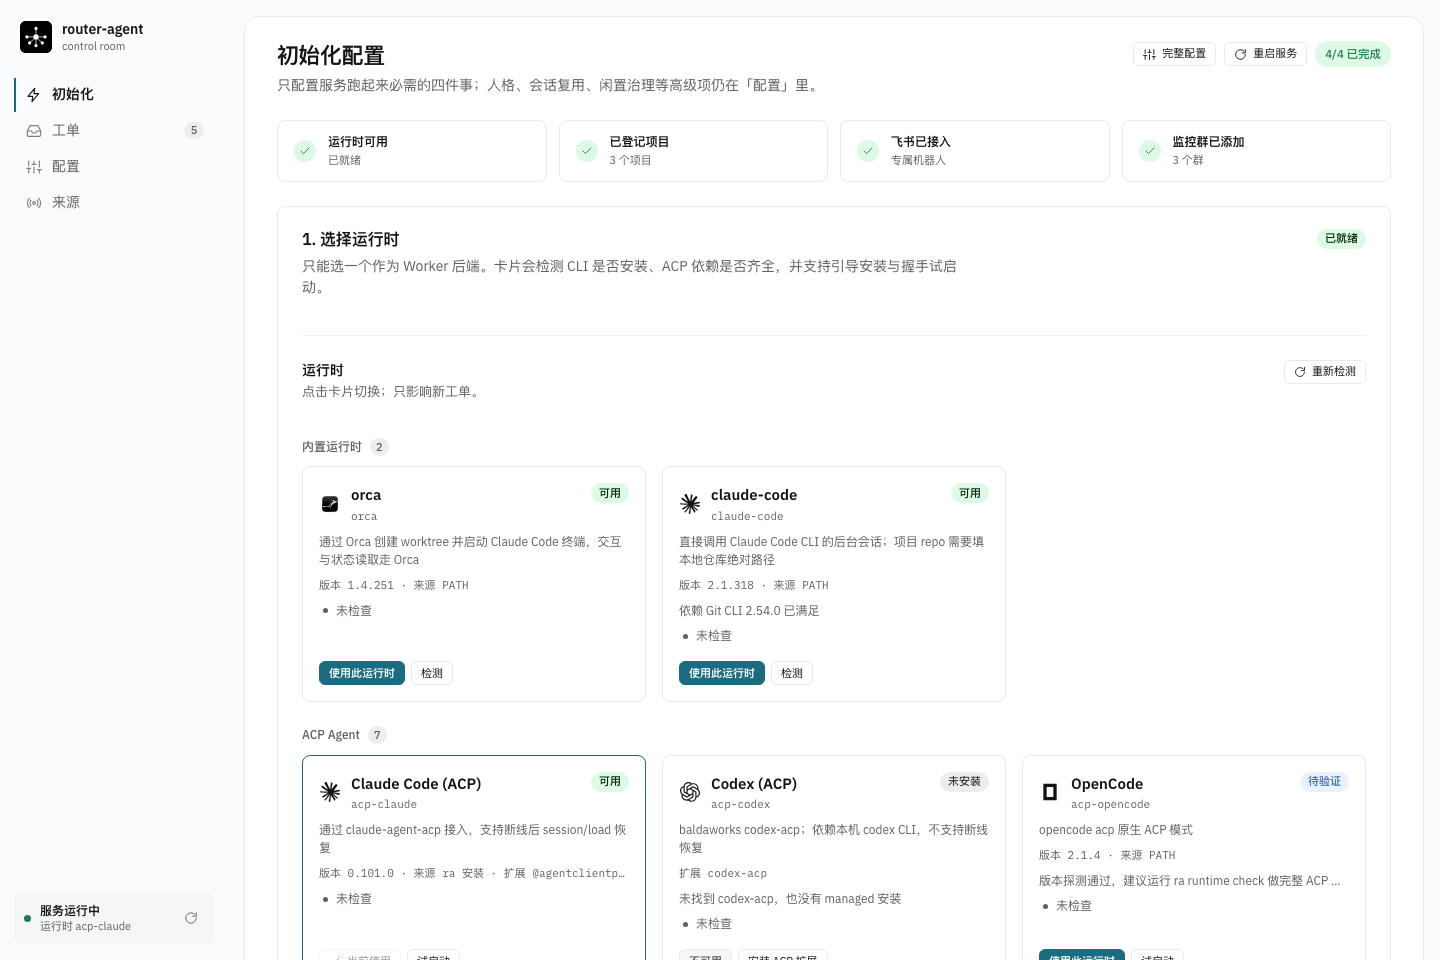
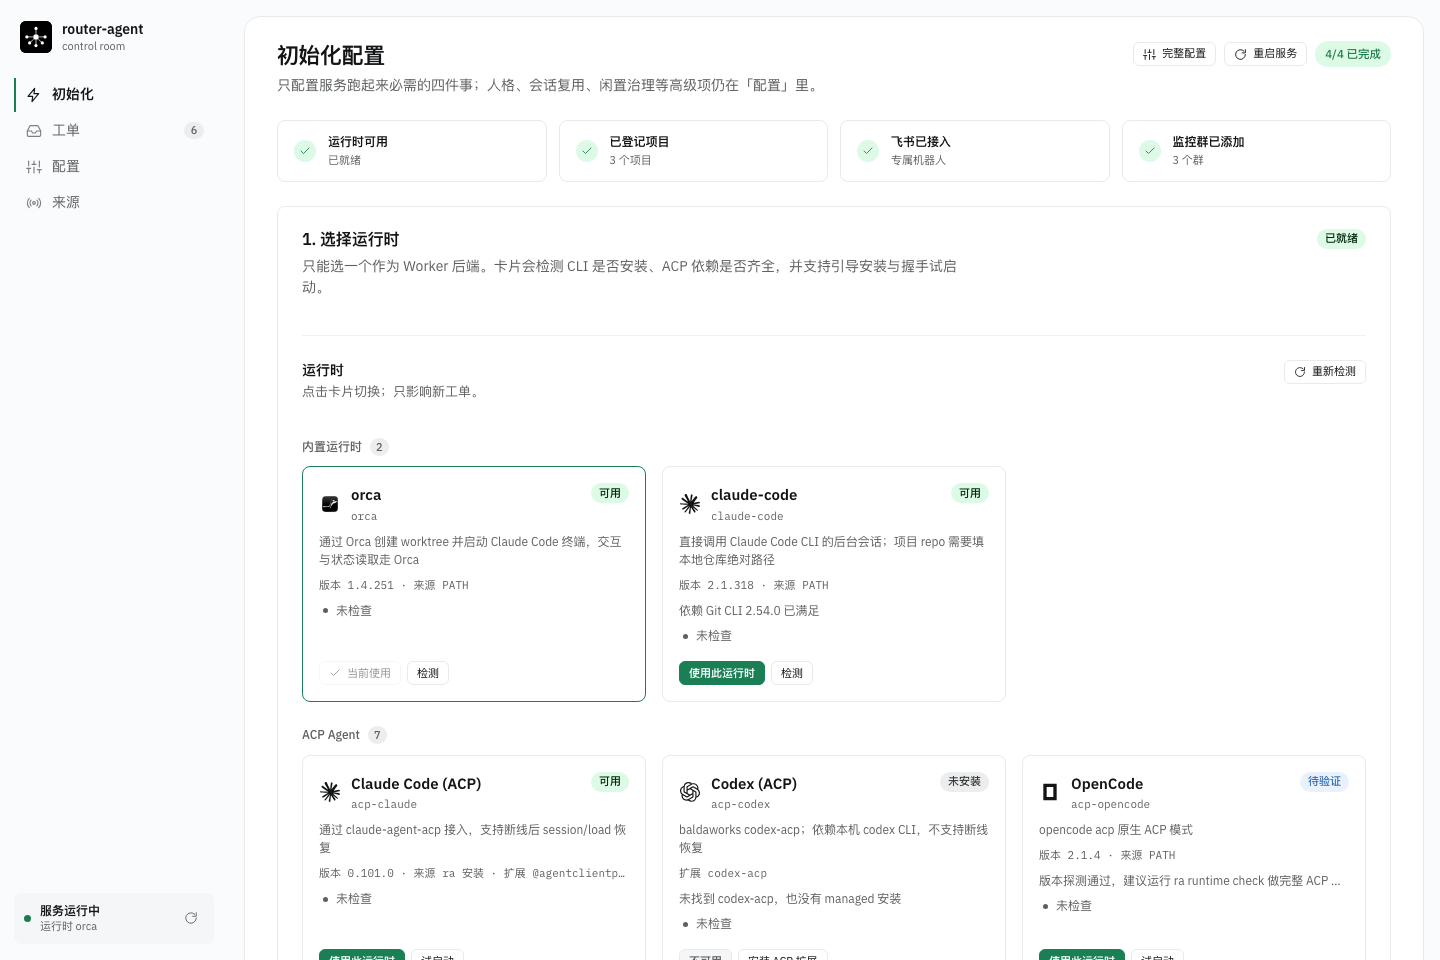
主题强调色由蓝绿改为绿色
- --accent 系列改为绿色：菜单选中态、主按钮、开关、聚焦框统一走绿色
- 同步更新 PR 截图

diff --git a/src/web/app.css b/src/web/app.css
@@ -1,6 +1,6 @@
 /* ---------------------------------------------------------------------------
    router-agent · control room
-   Framed sheet：染色外框 + 白色工作面；墨色正文，单一 teal 强调色只用于选中态。
+   Framed sheet：染色外框 + 白色工作面；墨色正文，单一绿色强调色用于选中态与主操作。
    阶段、运行时状态等语义色保留。
    --------------------------------------------------------------------------- */
 
@@ -16,9 +16,9 @@
   --text: #131416;
   --muted: #5d5f60;
   --faint: #6b6b6b;
-  --accent: #1b6c80;
-  --accent-deep: #155362;
-  --accent-soft: #e7f1f3;
+  --accent: #1a7f55;
+  --accent-deep: #146243;
+  --accent-soft: #e6f5ec;
   --on-accent: #ffffff;
   /* 单一重点色：菜单、选中态、主按钮、开关、聚焦框统一走 accent。 */
   --primary: var(--accent);
@@ -97,10 +97,10 @@
     --text: #ffffff;
     --muted: #b4b4b4;
     --faint: #949494;
-    --accent: #5fb3c6;
-    --accent-deep: #7cc8d8;
-    --accent-soft: #172a2e;
-    --on-accent: #000000;
+    --accent: #58d29b;
+    --accent-deep: #7be0b2;
+    --accent-soft: #142a1e;
+    --on-accent: #06231a;
     --positive: #3fc07a;
     --negative: #e5566f;
     --warning: #d8b062;
